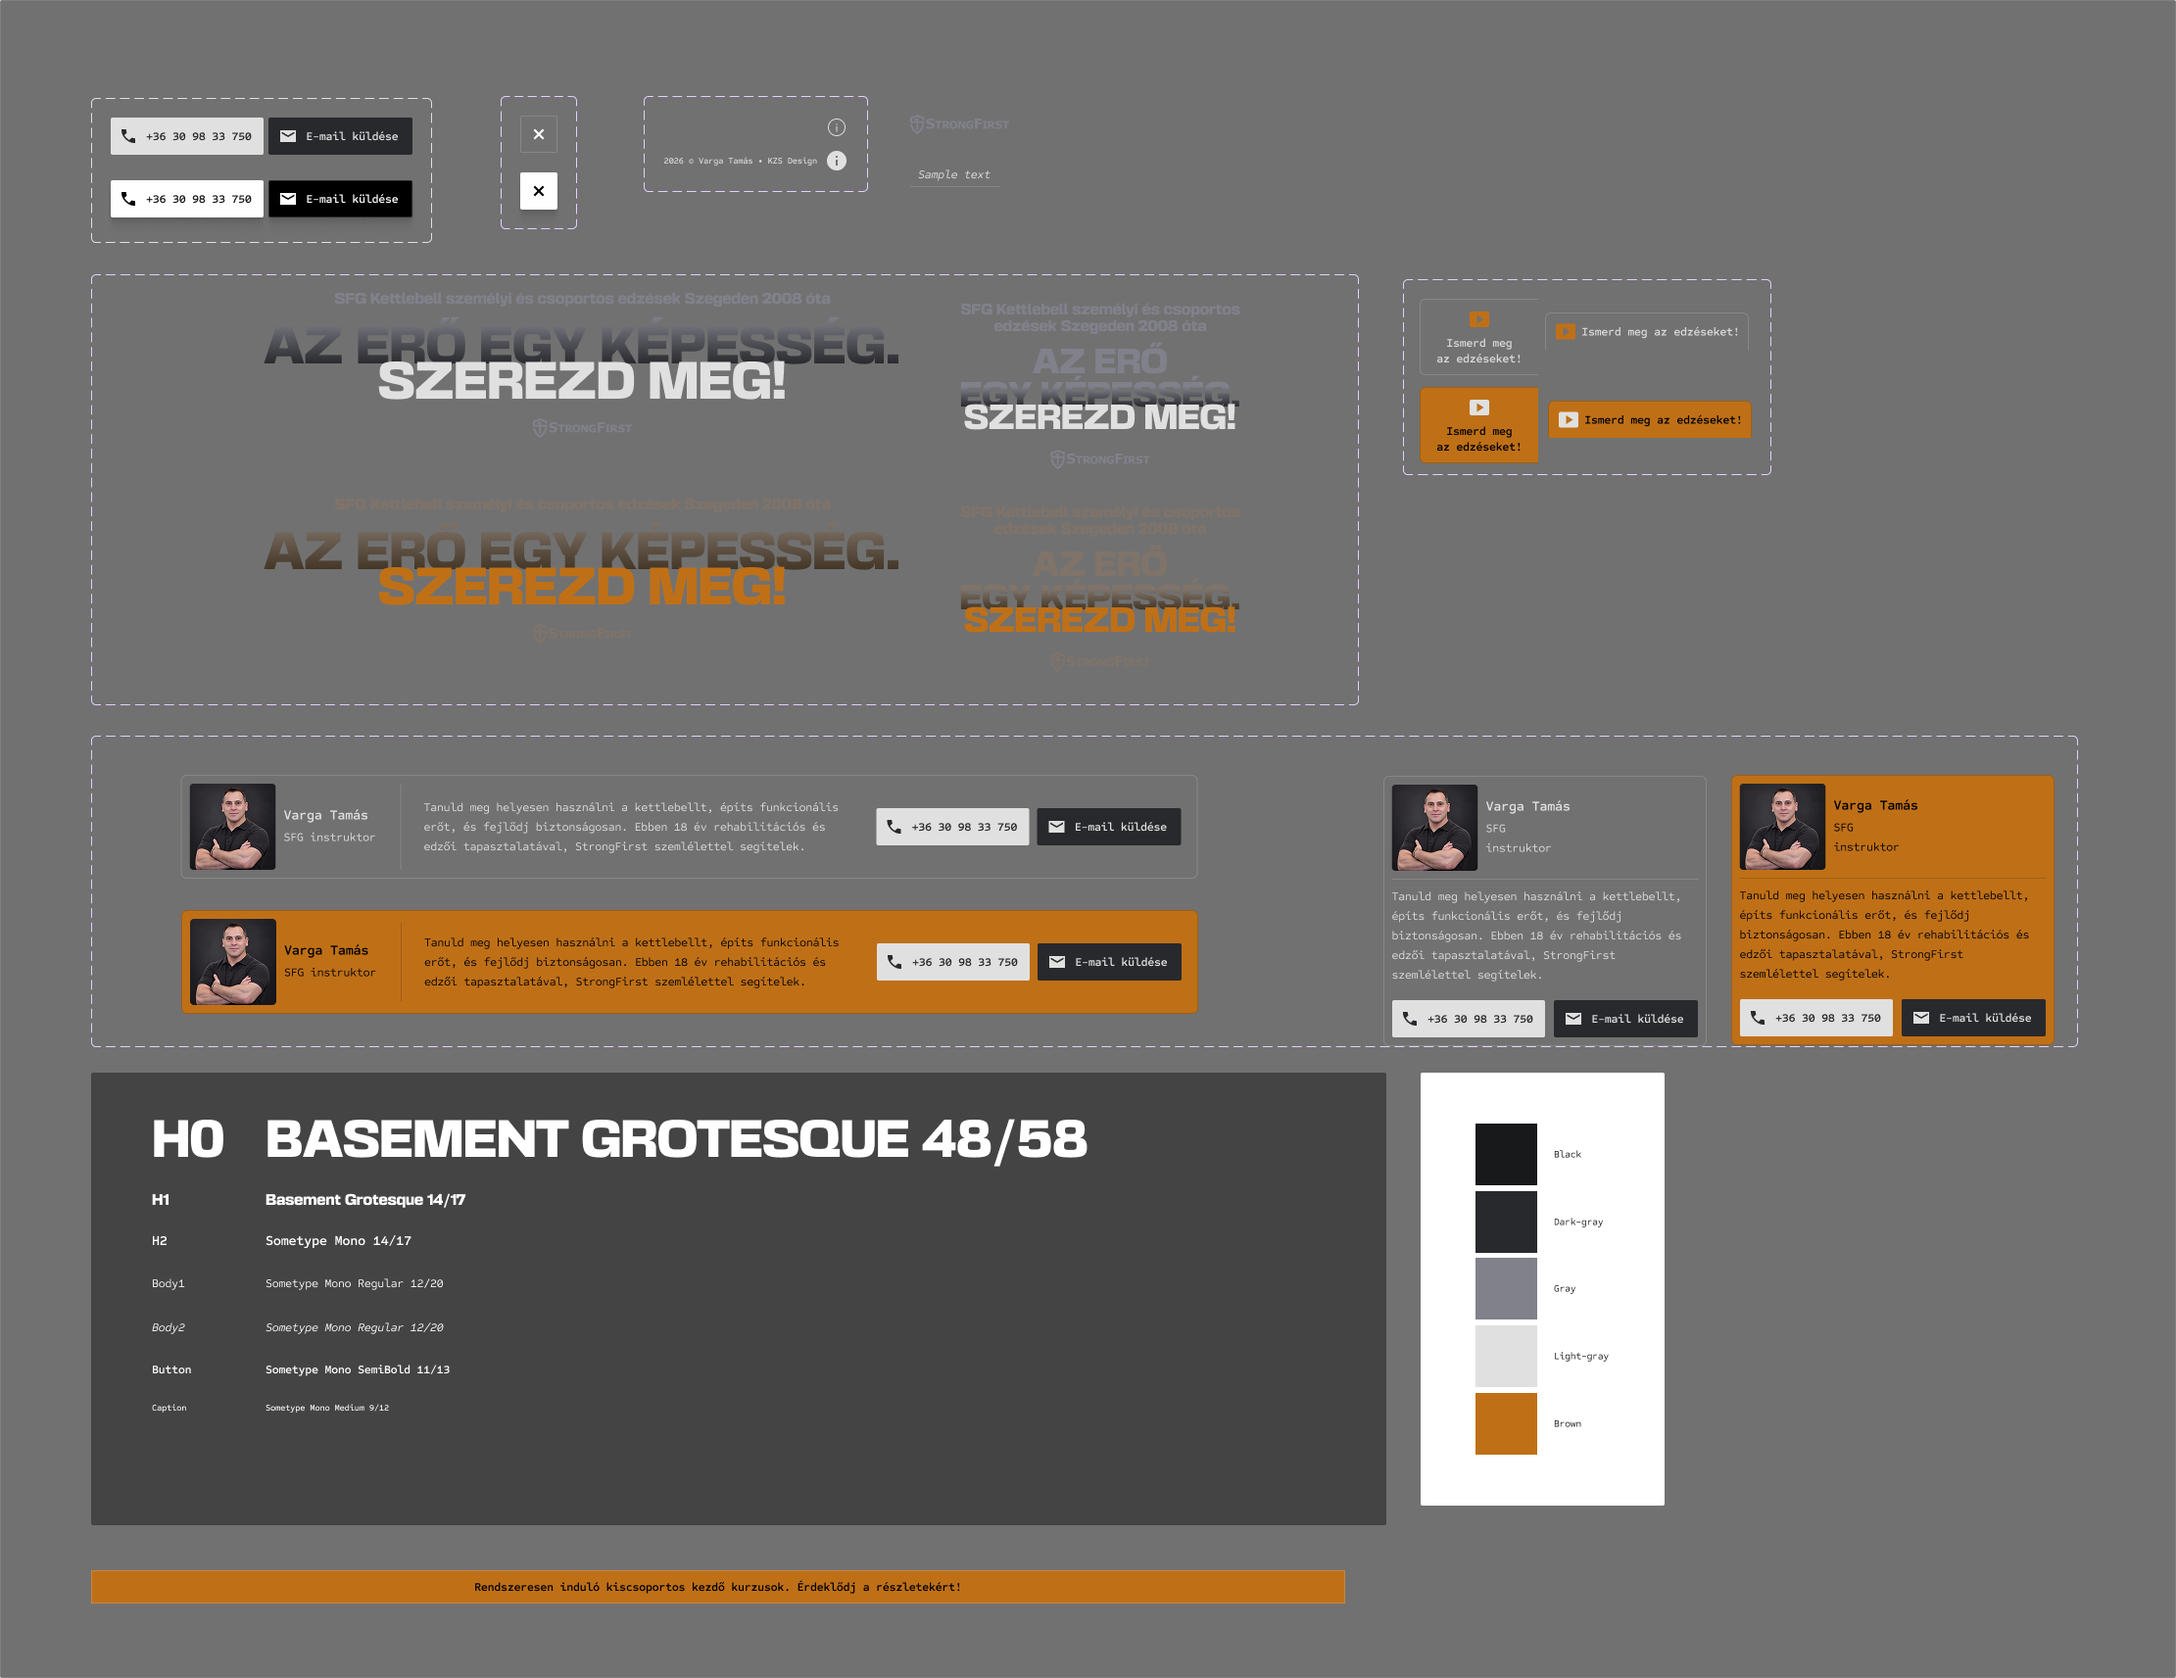
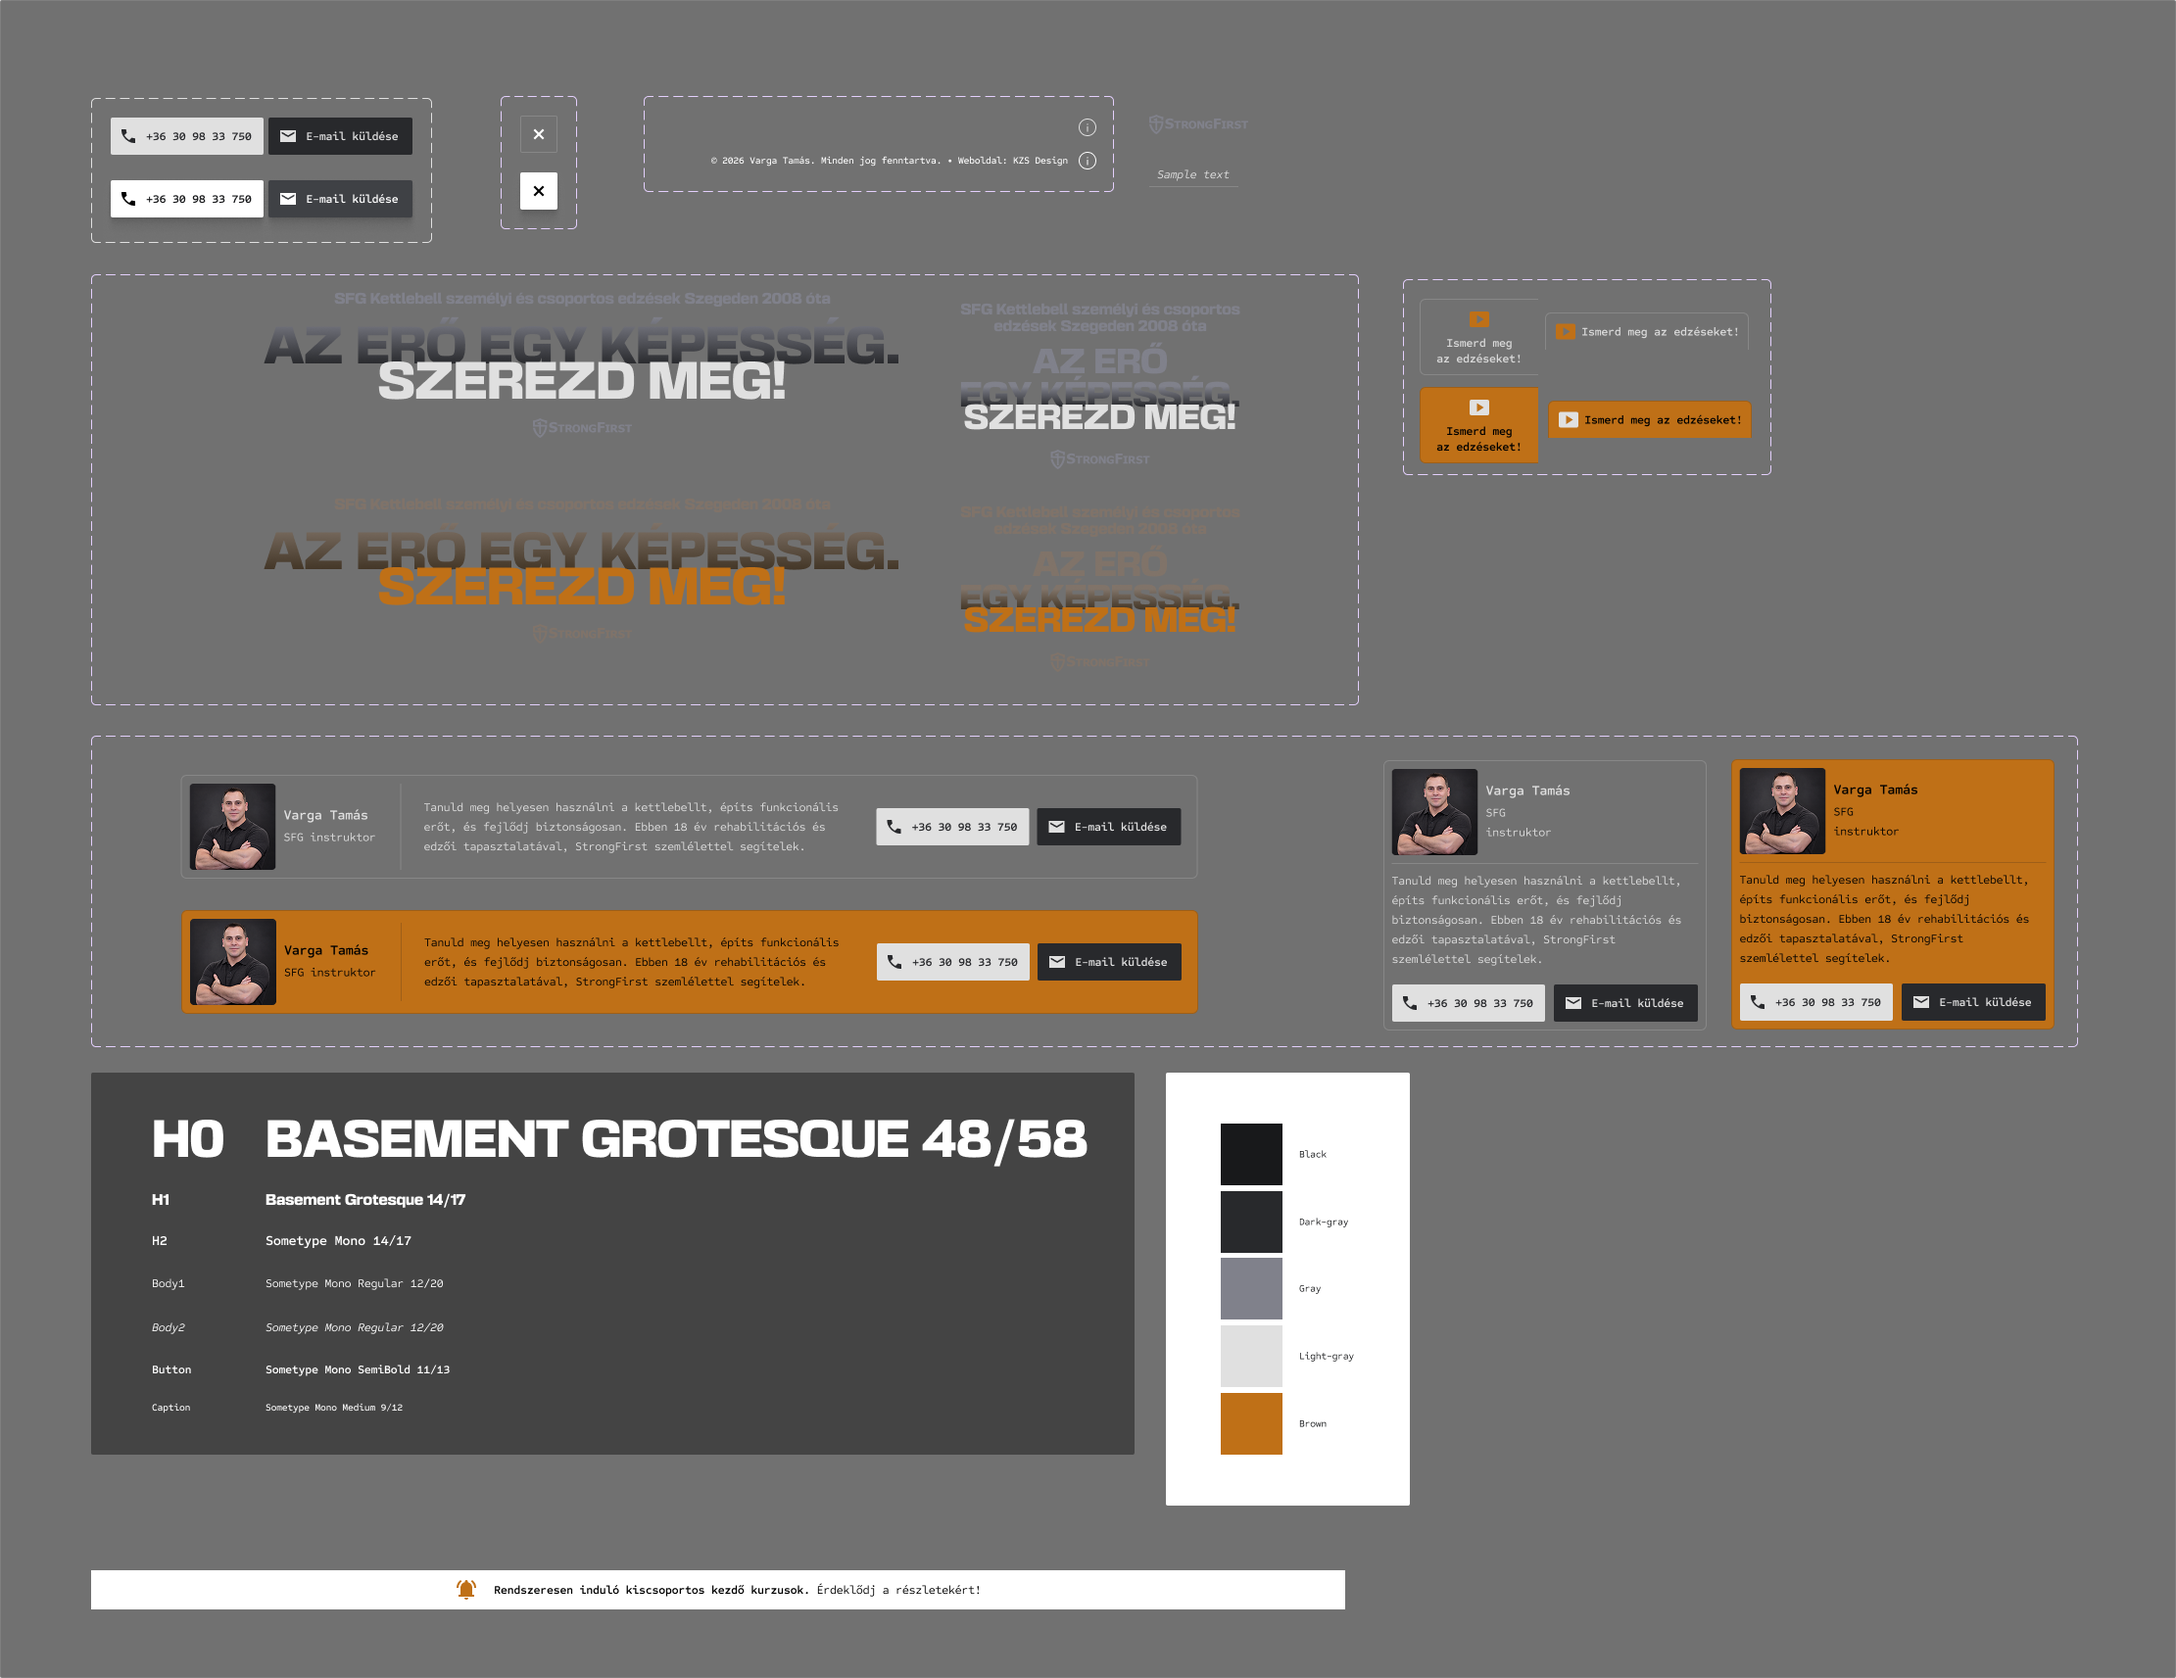
Promo bar (new Figma design, shown on every load) and black page background
- Promo bar: white bar with bell icon, SemiBold first sentence, 40px high, fixed overlay with no CLS;
  appears 3 s after load for 6 s on every page load (no sessionStorage); timing in src/config.ts
- Page background is now #000 on desktop and mobile (scene backdrop and component backgrounds unchanged)
- Docs, CLAUDE.md and screenshots updated

Changed region(s): [[0.0311, 0.4332, 0.9631, 0.9591], [0.1243, 0.0928, 0.1864, 0.1547], [0.3728, 0.0928, 0.4039, 0.1238]]

diff --git a/src/styles/global.css b/src/styles/global.css
@@ -427,6 +427,9 @@ a {
 }
 
 /* --------------------------------------------------------------- promo bar */
+/* Figma 2154:625 (current): full-width white bar, 8px/16px padding, 16px gap, orange bell icon (24px) and text
+   Sometype Mono 12px, black, letter-spacing -0.24px (first sentence SemiBold 12/16, second Regular 12/20); 40px high.
+   A fixed overlay: it never takes part in the layout (no CLS) and never catches the pointer. */
 .promo {
   position: fixed;
   z-index: 60;
@@ -436,29 +439,47 @@ a {
   display: flex;
   align-items: center;
   justify-content: center;
+  gap: 16px;
+  box-sizing: border-box;
+  min-height: 40px;
   padding: 8px 16px;
-  border: 1px solid var(--light-gray-20);
-  background: var(--brown);
+  background: var(--white);
   color: var(--black);
-  font-weight: 600;
-  font-size: 11px;
-  line-height: 13px;
+  font-weight: 400;
+  font-size: 12px;
+  line-height: 20px;
   letter-spacing: -0.02em;
   text-align: center;
   text-wrap: balance;
-  /* hidden until the timing logic of milestone 03 shows it; never shifts the layout (fixed overlay) */
+  pointer-events: none;
+  /* hidden state (before the delay and after the bar has been shown): above the viewport, transparent, out of the a11y tree */
   opacity: 0;
   visibility: hidden;
   transform: translateY(-100%);
-  pointer-events: none;
-  transition: opacity 0.5s var(--ease), transform 0.5s var(--ease), visibility 0s linear 0.5s;
+  transition: opacity var(--promo-exit, 500ms) var(--ease), transform var(--promo-exit, 500ms) var(--ease),
+    visibility 0s linear var(--promo-exit, 500ms);
 }
 .promo[data-visible='true'] {
   opacity: 1;
   visibility: visible;
   transform: translateY(0);
-  pointer-events: auto;
-  transition: opacity 0.5s var(--ease), transform 0.5s var(--ease), visibility 0s;
+  transition: opacity var(--promo-enter, 600ms) var(--ease), transform var(--promo-enter, 600ms) var(--ease),
+    visibility 0s;
+}
+.promo__icon {
+  flex: none;
+  width: 24px;
+  height: 24px;
+}
+.promo strong {
+  font-weight: 600;
+  line-height: 16px;
+}
+@media (prefers-reduced-motion: reduce) {
+  .promo,
+  .promo[data-visible='true'] {
+    transform: none; /* fade only */
+  }
 }
 
 /* ------------------------------------------------------ info / credit line */

diff --git a/src/config.ts b/src/config.ts
@@ -19,11 +19,15 @@ export const videoSrc: string = import.meta.env.PUBLIC_VIDEO_SRC || '/video/intr
 export const PAGE_STATE_ATTRIBUTE = 'data-state';
 export const PAGE_STATES = { default: 'default', active: 'active' } as const;
 
-/** Promo bar timing (milestone 03), in one place. */
+/** Promo bar: timing and animation values in one place. It is shown on every page load (reloads included), once per load. */
 export const promoBar = {
-  firstDelayMs: 5000,
+  /** Delay after the page has loaded before the bar slides in. */
+  firstDelayMs: 3000,
+  /** How long the bar stays visible. */
   visibleMs: 6000,
-  repeatMs: 45000,
+  /** Slide-down + fade-in and fade-out + slide-up durations. */
+  enterMs: 600,
+  exitMs: 500,
 } as const;
 
 export const splineSceneUrl = '/spline/scene-v4.splinecode';

diff --git a/src/styles/tokens.css b/src/styles/tokens.css
@@ -25,7 +25,7 @@
   --t: 0.4s;
 
   /* ---- state-dependent values (default state) ---- */
-  --page-bg: var(--dark-gray);
+  --page-bg: var(--black); /* global page background: pure black (design-owner decision) */
   --eyebrow-color: var(--gray); /* also the StrongFirst logo colour */
   --headline-accent: var(--light-gray);
   --headline-overlay: transparent;
@@ -61,10 +61,10 @@
 
 @media (max-width: 959.98px) {
   :root {
-    --page-bg: var(--mobile-bg);
+    --page-bg: var(--black);
   }
   :root[data-state='active'] {
-    --page-bg: var(--mobile-bg);
+    --page-bg: var(--black);
     --panel-shift: 0px; /* mobile active frame keeps the panel in place */
   }
 }

diff --git a/docs/02-layout-and-design.md b/docs/02-layout-and-design.md
@@ -88,3 +88,5 @@ Unchanged: `assets/scene.splinecode`, `assets/video.mp4`, `assets/BasementGrotes
 - **Info/credit line (Figma Caption, 2154:516):** Sometype Mono Medium 10 px / 12 px, letter-spacing -0.2 px (-0.02em), white; text "© 2026 Varga Tamás. Minden jog fenntartva. • Weboldal: KZS Design". Animation: the text sits in a clip window that ends at the icon edge and slides out to the left from behind the icon on hover/keyboard focus of the icon (0.4 s), and back in (0.28 s); closed state is fully clipped. Icon unchanged (the Figma open variant uses a white `#FFF` icon instead of `#E0E0E0`; not applied as requested). Desktop only.
 - **Info control moved to the bottom-left (design-owner decision):** `position: fixed; left: 24px; bottom: 24px` (aligned to the browser window), icon on the left, the text opens to the right of it (clip window starting at the icon edge, text slides out from the icon, 0.4 s open / 0.28 s close). Measured at 1280×834: icon (24, 786) 24×24, closed text x −316…48 (fully clipped), open text starts at x 56; 1440×900 icon (24, 852); 960×700 icon (24, 652). Still hidden on mobile (earlier decision): at the bottom-left it would sit on the left edge of the full-width mobile video tab, which must not be changed. On viewports shorter than the stage (e.g. 960×700) the fixed control can overlap the bottom of the info panel.
 - **Info control, exact position (design-owner decision):** `position: fixed; left: 10px; bottom: 10px` on desktop and mobile (it is now shown on mobile too; the earlier "desktop only" decision is superseded). Measured: icon at (10, 800) on 1280×834 and (10, 838) on 393×872, 24×24. The text opens to the right of the icon; "KZS Design" is a link to https://karoczkaizsolt.work (new tab, `rel="noopener"`, underlined so it is not marked by colour alone). The text stays open while the pointer is over it or the link has focus; on touch devices tapping the icon opens it. On mobile (393 px) the text wraps to two lines (max width viewport − 44 px). **Known overlap on mobile:** the icon and the opened text lie over the full-width video tab (the tab is at y 834–872 and spans x 31.5–361); the tab is not changed.
+- **Promo bar (Figma 2154:625, updated design):** white background, no border, 24 px orange bell icon (`src/assets/figma/icon-notifications-active.svg`, exported from Figma), 16 px gap, padding 8/16, text Sometype Mono 12 px black, -0.24 px, first sentence SemiBold (12/16), second Regular (12/20); full width, 40 px high on desktop (measured 1280×40; icon at x 371, text 497 px wide, as in Figma), two text lines / 56 px on a 393 px wide phone (no mobile frame). Fixed overlay (`position: fixed; top: 0`, `pointer-events: none` always): layout-shift score 0; hero, canvas and info panel rects identical hidden and visible on desktop and mobile. Behaviour: shown on every page load including reloads (no `sessionStorage`, no restriction; verified: after a reload it appears again, storage empty), 3 s after the load event, visible 6 s (measured 3192 ms → 9194 ms), slide-down + fade-in 600 ms, fade-out + slide-up 500 ms, no repetition on the same load. `prefers-reduced-motion`: fade only. Configuration: `promoBar` in `src/config.ts` (`firstDelayMs`, `visibleMs`, `enterMs`, `exitMs`). Screenshots: `docs/screenshots/promo-{desktop,mobile}-{hidden,visible}.png` (the visible ones were captured with the state held, because the software-rendered page is too slow to screenshot within 6 s).
+- **Page background set to black (design-owner decision):** `--page-bg` is now `#000` in the default state on desktop and mobile (previously `#18191b` / `#141414`); the mobile active state also uses `#000`. `theme-color` meta is `#000000`. Unchanged: the Spline scene's own backdrop, the orange active-state background on desktop, and component backgrounds (promo bar, panel, tab, modal `#141414`). Verified at 1280×834, 393×872 and 800×1100: `html` and `.stage` compute to `rgb(0,0,0)`, no horizontal overflow. With the scene rendered, the canvas covers the page background, so the visible look is the scene's own backdrop (unchanged); the black shows only where the canvas does not cover (fallback or scene unavailable, and during load).

diff --git a/CLAUDE.md b/CLAUDE.md
@@ -288,19 +288,17 @@ Text:
 
 ### Behaviour
 
-Initial timing:
-- First appearance: 5 seconds after page load.
-- Visible duration: 6 seconds.
-- Repeat interval: 45 seconds.
-
-These values must be configurable in one place.
+Design owner's update (supersedes the earlier 5 s / 6 s / 45 s repeat and the once-per-session rule):
+- Appears 3 seconds after the page has loaded, stays visible for 6 seconds, then disappears.
+- Shown on **every page load, reloads included**, once per load; no repetition on the same load, no ticker behaviour. No `sessionStorage` or any other display restriction.
+- Delay, visible time and enter/exit durations are configured in one place: `promoBar` in `src/config.ts`.
 
 ### Visual requirements
 
 - Fixed overlay at the top of the viewport.
 - Must not push or shift the underlying content.
 - Must not cause layout shifts (CLS).
-- Match Figma dimensions, typography and colors.
+- Match Figma dimensions, typography and colors (current Figma: white background, no border, 24px orange bell icon `assets` `src/assets/figma/icon-notifications-active.svg`, 16px gap, 8px/16px padding, Sometype Mono 12px black, letter-spacing -0.24px, first sentence SemiBold, second Regular; 40 px high on desktop; on narrow screens the text wraps to two lines).
 - Work on desktop and mobile.
 - Use subtle slide-down and fade-in animation.
 - Use fade-out and slide-up when disappearing.
